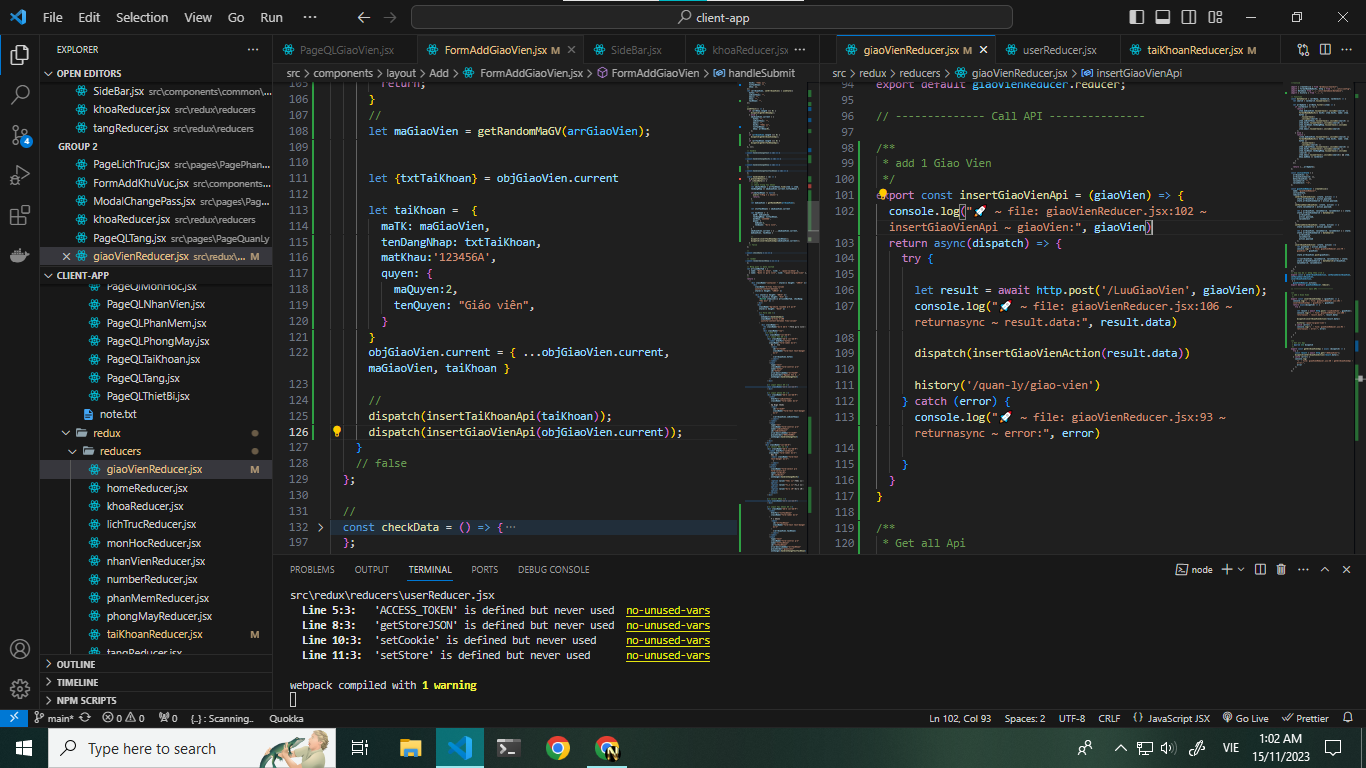
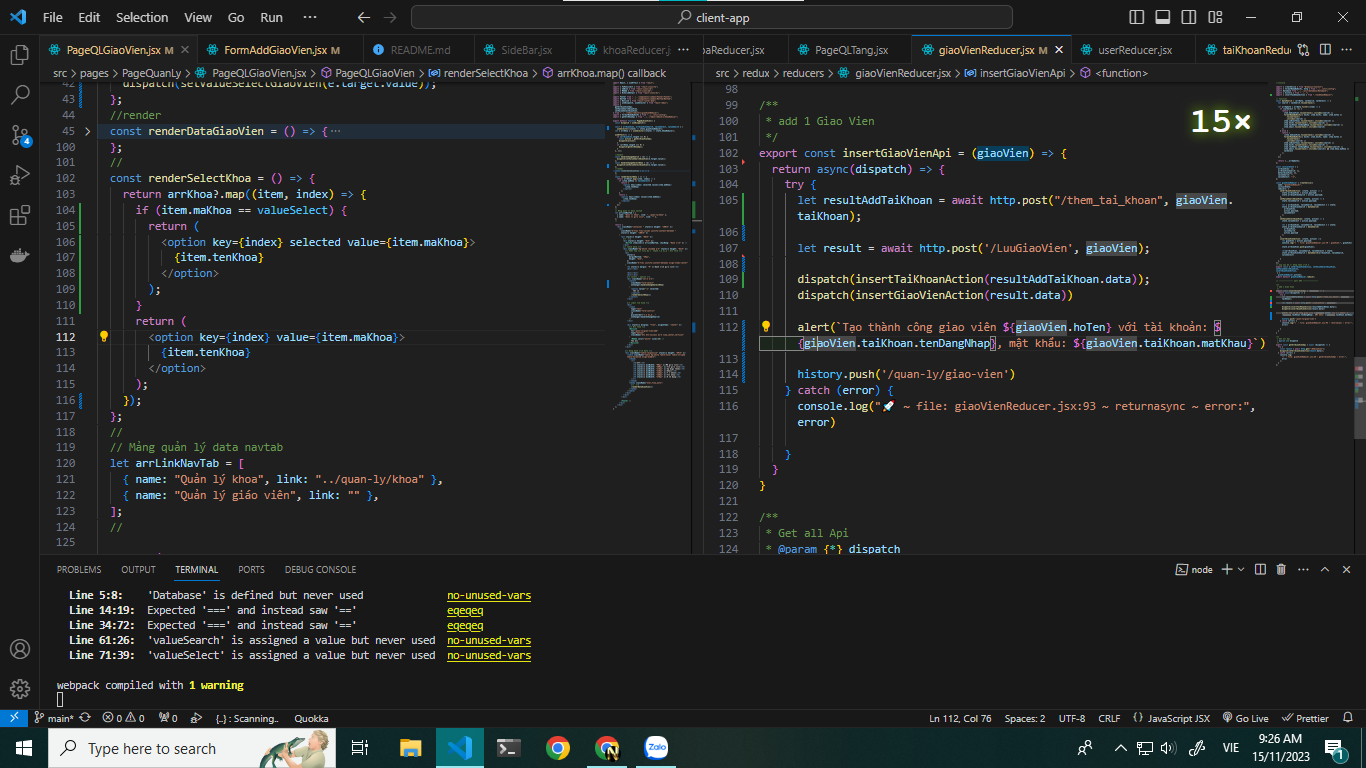
Ql GV: finish addinsert GV

diff --git a/src/pages/PageQuanLy/PageQLGiaoVien.jsx b/src/pages/PageQuanLy/PageQLGiaoVien.jsx
@@ -20,9 +20,8 @@ import { getAllKhoaApi } from "../../redux/reducers/khoaReducer";
 export default function PageQLGiaoVien() {
   const dispatch = useDispatch();
 
-  const { arrGiaoVien, arrGiaoVienSearch } = useSelector(
-    (state) => state.giaoVienReducer
-  );
+  const { arrGiaoVien, arrGiaoVienSearch, valueSelect, valueSearch } =
+    useSelector((state) => state.giaoVienReducer);
   let { arrKhoa } = useSelector((state) => state.khoaReducer);
 
   useEffect(() => {
@@ -40,8 +39,8 @@ export default function PageQLGiaoVien() {
     dispatch(setValueSearchGiaoVien(e.target.value));
   };
   const handleChangeSelectKhoa = (e) => {
-    dispatch(setValueSelectGiaoVien(e.target.value))
-  }
+    dispatch(setValueSelectGiaoVien(e.target.value));
+  };
   //render
   const renderDataGiaoVien = () => {
     return arrGiaoVienSearch?.map((item, index) => {
@@ -102,12 +101,19 @@ export default function PageQLGiaoVien() {
   //
   const renderSelectKhoa = () => {
     return arrKhoa?.map((item, index) => {
+      if (item.maKhoa == valueSelect) {
+        return (
+          <option key={index} selected value={item.maKhoa}>
+            {item.tenKhoa}
+          </option>
+        );
+      }
       return (
         <option key={index} value={item.maKhoa}>
           {item.tenKhoa}
         </option>
       );
-    })
+    });
   };
   //
   // Mảng quản lý data navtab
@@ -145,7 +151,10 @@ export default function PageQLGiaoVien() {
               <div></div>
               {/* select - option */}
               <div className="col-2 m-2">
-                <select className="form-select" onChange={handleChangeSelectKhoa}>
+                <select
+                  className="form-select"
+                  onChange={handleChangeSelectKhoa}
+                >
                   <option value="-1" selected>
                     tất cả
                   </option>

diff --git a/src/redux/reducers/giaoVienReducer.jsx b/src/redux/reducers/giaoVienReducer.jsx
@@ -4,6 +4,7 @@ import { createSlice } from "@reduxjs/toolkit";
 import { formatNameByHocVi, http } from "../../util/config";
 import Database from "../../util/database/Database";
 import { history } from "../..";
+import { insertTaiKhoanAction } from "./taiKhoanReducer";
 
 // function
 const dataSearch = (arrData, valSearch, valSelect) => {
@@ -99,16 +100,18 @@ export default giaoVienReducer.reducer;
  * add 1 Giao Vien
  */
 export const insertGiaoVienApi = (giaoVien) => {
-  console.log("🚀 ~ file: giaoVienReducer.jsx:102 ~ insertGiaoVienApi ~ giaoVien:", giaoVien)
   return async(dispatch) => {
     try {
-
+      let resultAddTaiKhoan = await http.post("/them_tai_khoan", giaoVien.taiKhoan);
+      
       let result = await http.post('/LuuGiaoVien', giaoVien);
-      console.log("🚀 ~ file: giaoVienReducer.jsx:106 ~ returnasync ~ result.data:", result.data)
-
+      
+      dispatch(insertTaiKhoanAction(resultAddTaiKhoan.data));
       dispatch(insertGiaoVienAction(result.data))
 
-      history('/quan-ly/giao-vien')
+      alert(`Tạo thành công giao viên ${giaoVien.hoTen} với tài khoản: ${giaoVien.taiKhoan.tenDangNhap}, mật khẩu: ${giaoVien.taiKhoan.matKhau}`)
+     
+      history.push('/quan-ly/giao-vien')
     } catch (error) {
       console.log("🚀 ~ file: giaoVienReducer.jsx:93 ~ returnasync ~ error:", error)
       

diff --git a/src/components/layout/Add/FormAddGiaoVien.jsx b/src/components/layout/Add/FormAddGiaoVien.jsx
@@ -32,7 +32,7 @@ export default function FormAddGiaoVien() {
     taiKhoan: "",
   });
 
-  //
+  //3
   useEffect(() => {
     if (arrKhoa.length === 0) {
       dispatch(getAllKhoaApi);
@@ -122,7 +122,7 @@ export default function FormAddGiaoVien() {
       objGiaoVien.current = { ...objGiaoVien.current, maGiaoVien, taiKhoan }
 
       //
-      dispatch(insertTaiKhoanApi(taiKhoan));
+      // dispatch(insertTaiKhoanApi(taiKhoan));
       dispatch(insertGiaoVienApi(objGiaoVien.current));
     }
     // false
@@ -392,10 +392,10 @@ export default function FormAddGiaoVien() {
                 </div>
                 {/* footer - form */}
                 <div className="">
-                  <button type="reset" class="btn btn-danger mx-3">
+                  <button type="reset" className="btn btn-danger mx-3">
                     Khôi phục
                   </button>
-                  <button type="submit" class="btn btn-success mx-3">
+                  <button type="submit" className="btn btn-success mx-3">
                     Tạo mới
                   </button>
                 </div>

diff --git a/src/redux/reducers/taiKhoanReducer.jsx b/src/redux/reducers/taiKhoanReducer.jsx
@@ -98,8 +98,7 @@ export default taiKhoanReducer.reducer;
 export const insertTaiKhoanApi = (taiKhoan) => {
   return async (dispatch) => {
     try {
-      let result = await http.post("/tai_khoan", taiKhoan);
-
+      let result = await http.post("/them_tai_khoan", taiKhoan);
       dispatch(insertTaiKhoanAction(result.data));
     } catch (error) {
       console.log("🚀 ~ file: taiKhoanReducer.jsx:89 ~ return ~ error:", error);

diff --git a/README.md b/README.md
@@ -63,6 +63,7 @@
     - chưa sử lý tgian hết hạn sử dụng của Tbi - PM (dang them +1 vao thang) - y
     - ModalChangePass: gui data redux -- Call Api - z
     - FormAddPhong: chua co check data co ToaNha vs tang - z
+    - FormAddGiaoVien: api add TaiKhoan Thanh cong -- api Add GV errr 500 -- update theeo server mới thử- good look = z (fix them tai khoan trong api insert cua GV)
 
     - tìm kiếm -  detailKhuVuc chưa có gì
     - PageQLPhongMay - can 1 search theo status
@@ -94,7 +95,6 @@
     - QL Phong khi them 1 phong chon so luong máy tính(VD 5 cai) có thế mặc định add 5 cái may tinh không? 
     - FormAddPhong: api chua duoc
     - PageQLKhoa - update: chua biet tat model
-    -- FormAddGiaoVien: api add TaiKhoan Thanh cong -- api Add GV errr 500 -- update theeo server mới thử- good look
 
 ## Tài liệu
 
